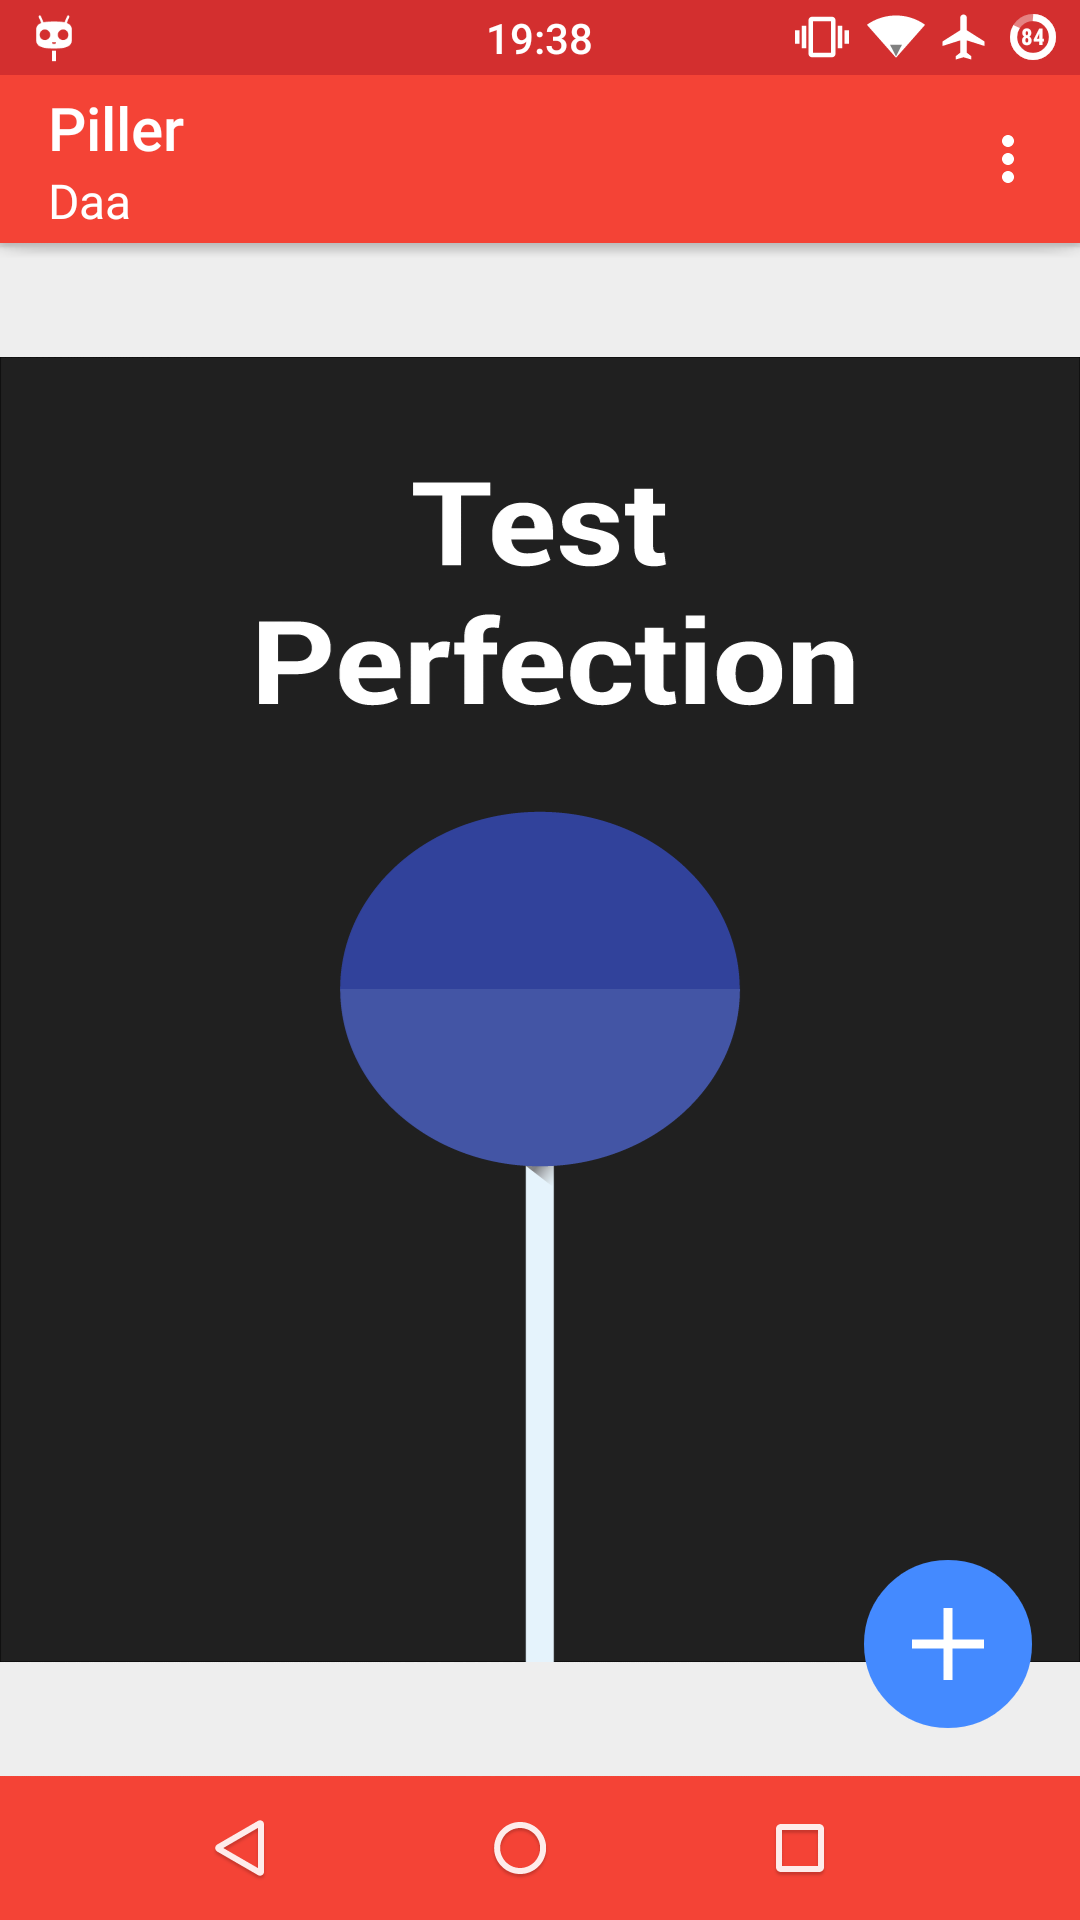
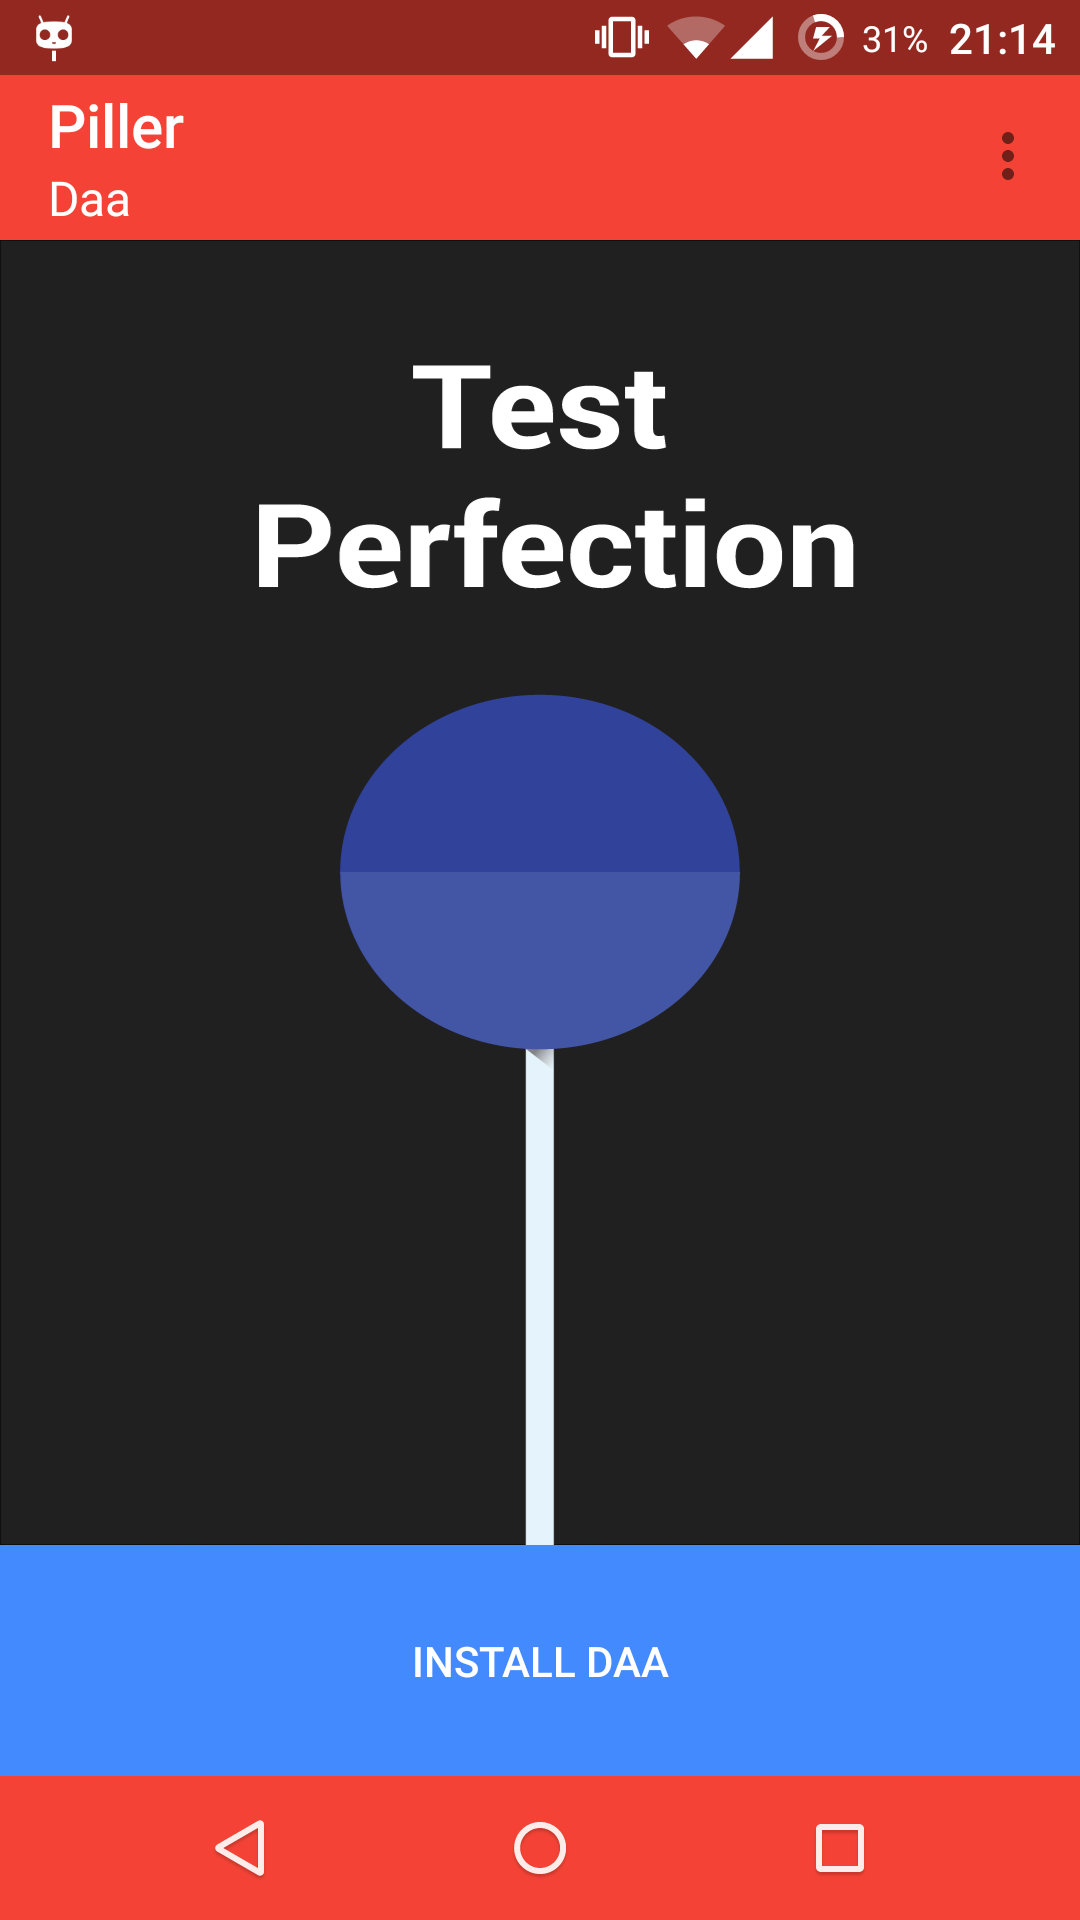
Revert "New material button and uninstall added."
This reverts commit 82cf92b875e9c33131447dd03f38c85f6e598392.

Changed region(s): [[0.0, 0.0938, 1.0, 0.625], [0.0, 0.7812, 1.0, 1.0], [0.0, 0.0, 1.0, 0.0938]]

diff --git a/app/src/main/java/io/github/pillsoft/piller/ThemeActivity.java b/app/src/main/java/io/github/pillsoft/piller/ThemeActivity.java
@@ -26,8 +26,6 @@ import android.content.Intent;
 import android.content.pm.PackageManager;
 import android.content.res.AssetManager;
 import android.graphics.Color;
-import android.graphics.PorterDuff;
-import android.graphics.drawable.Drawable;
 import android.net.Uri;
 import android.os.AsyncTask;
 import android.os.Bundle;
@@ -40,7 +38,6 @@ import android.view.MenuItem;
 import android.view.View;
 import android.view.Window;
 import android.widget.Button;
-import android.widget.ImageButton;
 import android.widget.ImageView;
 import android.widget.Toast;
 
@@ -60,7 +57,7 @@ public class ThemeActivity extends ActionBarActivity {
     String ThemeAccentColor;
     String ThemeHighlightColor;
     String FileName;
-    ImageButton installButton;
+    Button installButton;
     ImageView image;
 
 
@@ -97,31 +94,23 @@ public class ThemeActivity extends ActionBarActivity {
 
 
         FileName = ThemeName + ".apk";
-
-
-        installButton = (ImageButton) findViewById(R.id.fab);
-
-        Drawable fabBackground=getResources().getDrawable(R.drawable.fab_background);
-        fabBackground.setColorFilter(Color.parseColor(ThemeHighlightColor), PorterDuff.Mode.ADD);
-
-        installButton.setBackground(fabBackground);
-       // installButton.setImageDrawable(getResources().getDrawable(R.drawable.plus));
-
+        installButton = (Button) findViewById(R.id.install_button);
+        installButton.setBackgroundColor(Color.parseColor(ThemeHighlightColor));
 
         if (PackageInstalled(ThemePackage)) {
-            installButton.setClickable(true);
-            installButton.setImageDrawable(getResources().getDrawable(R.drawable.minus));
+            //InstallButton.setVisibility(View.GONE);
+            installButton.setVisibility(View.VISIBLE);
             installButton.setOnClickListener(new View.OnClickListener() {
                 @Override
                 public void onClick(View view) {
-
-                    Uninstall(ThemePackage);
+                    OpenThemeInSettings(ThemePackage);
                 }
             });
 
         } else {
+            installButton.setVisibility(View.VISIBLE);
             installButton.setClickable(true);
-            installButton.setImageDrawable(getResources().getDrawable(R.drawable.plus));
+            installButton.setText("Install " + ThemeName);
             installButton.setOnClickListener(new View.OnClickListener() {
                 @Override
                 public void onClick(View view) {
@@ -135,20 +124,13 @@ public class ThemeActivity extends ActionBarActivity {
     public void onResume() {
         super.onResume();
         if (PackageInstalled(ThemePackage)) {
+            //InstallButton.setVisibility(View.GONE);//hide the installation button
+            installButton.setText(ThemeName+" " + getResources().getString(R.string.alreadyInstalled));
             //clean of the /Themes/ folder
-            installButton.setClickable(true);
-            installButton.setImageDrawable(getResources().getDrawable(R.drawable.minus));
-            installButton.setOnClickListener(new View.OnClickListener() {
-                     @Override
-                     public void onClick(View view) {
-
-                         Uninstall(ThemePackage);
-                     }
-                 });
             delete(new File(Environment.getExternalStorageDirectory() + "/Themes/"));
         } else {
-            installButton.setClickable(true);
-            installButton.setImageDrawable(getResources().getDrawable(R.drawable.plus));
+            installButton.setVisibility(View.VISIBLE);
+            installButton.setText("Install " + ThemeName);
             installButton.setOnClickListener(new View.OnClickListener() {
                 @Override
                 public void onClick(View view) {
@@ -204,14 +186,14 @@ public class ThemeActivity extends ActionBarActivity {
         }
         return true;
     }
-/*
+
     public void OpenThemeInSettings(String target_package) {
         Intent intent = new Intent("android.intent.action.MAIN");
         intent.putExtra("pkgName", target_package);
         intent.setComponent(new ComponentName("org.cyanogenmod.theme.chooser", "org.cyanogenmod.theme.chooser.ChooserActivity"));
         startActivity(intent);
     }
-*/
+    /* NEXT UPATE
     public void Uninstall(String targetPackage) {
         Uri packageUri = Uri.parse("package:" + targetPackage);
         Intent uninstallIntent = new Intent(Intent.ACTION_DELETE,
@@ -219,6 +201,13 @@ public class ThemeActivity extends ActionBarActivity {
         startActivity(uninstallIntent);
     }
 
+    public void CopyToClipBoard(String label, String text) {
+        ClipboardManager clipboard = (ClipboardManager) getSystemService(CLIPBOARD_SERVICE);
+        ClipData clip = ClipData.newPlainText(label, text);
+        clipboard.setPrimaryClip(clip);
+        Toast.makeText(getApplicationContext(), label + " copied to clipboard", Toast.LENGTH_SHORT).show();
+    }
+*/
     private void copyFile(InputStream in, OutputStream out) throws IOException {
         byte[] buffer = new byte[1024];
         int read;
